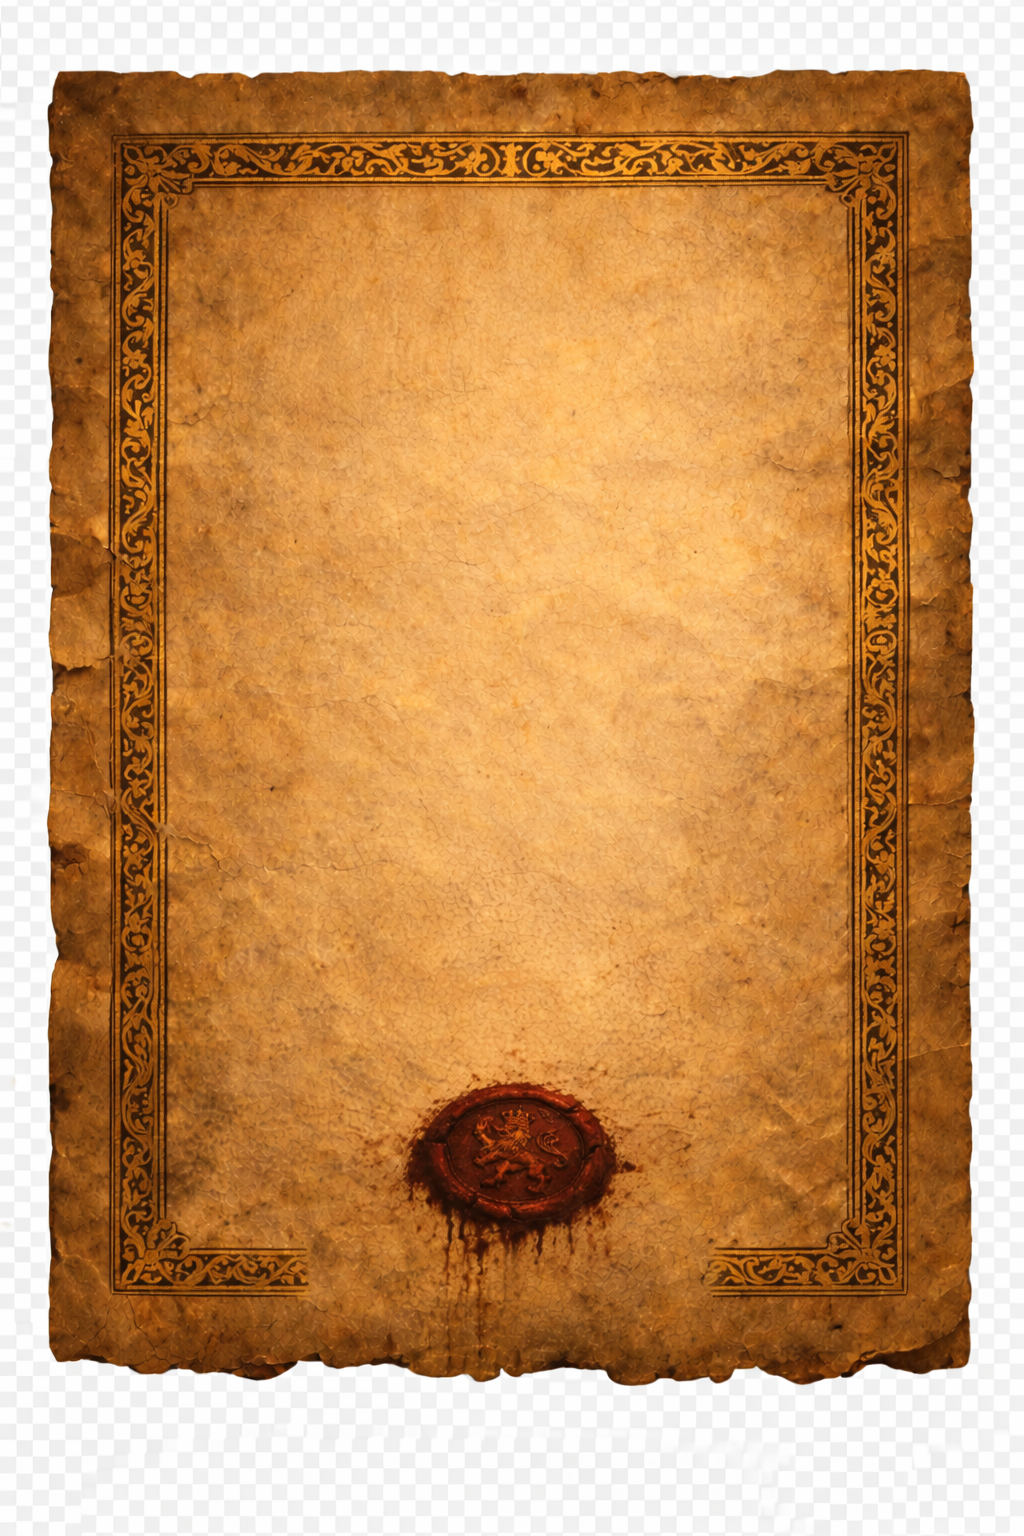
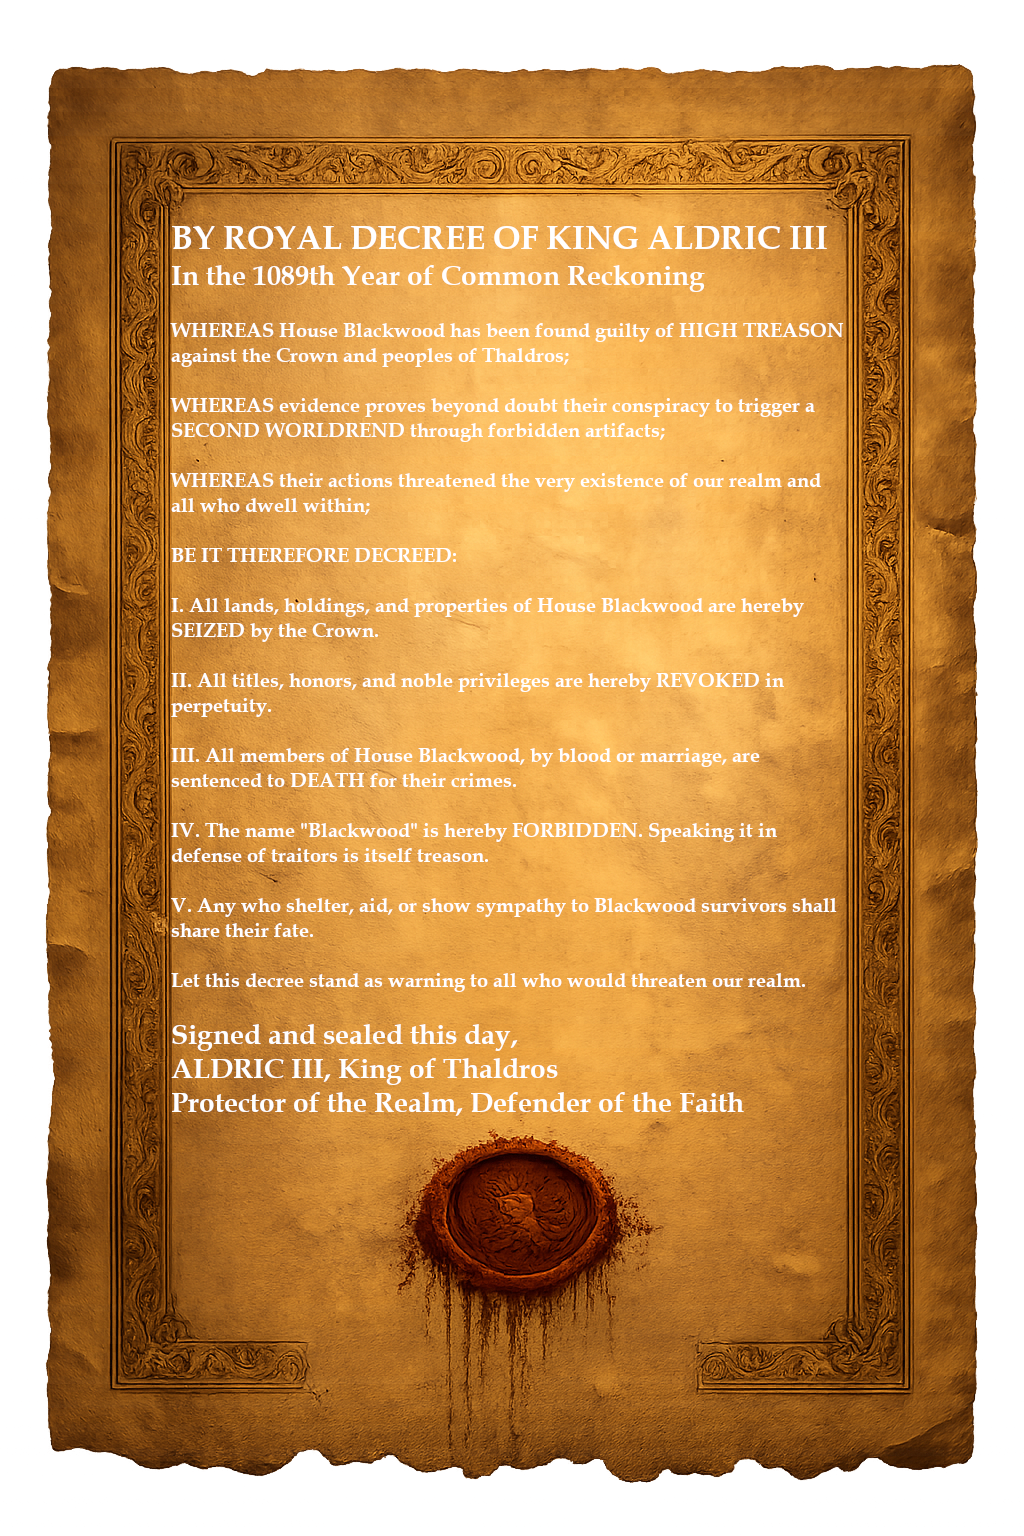
- updated decree

diff --git a/homebrewery-files/shattered-oaths-homebrewery.md b/homebrewery-files/shattered-oaths-homebrewery.md
@@ -13043,13 +13043,7 @@ This section contains printable handouts to enhance immersion. Each handout incl
 
 **DM Note:** This is the Unbound's recognition symbol. Members carry these to identify each other. Finding one on a cultist or at a crime scene confirms Unbound involvement.
 
----
-
-**DALL-E PROMPT - Black Raven Token:**
-```
-A dark metal coin or medallion on aged wooden surface, featuring an embossed silver raven with spread wings against black iron, ancient runic text around the edge, dramatic lighting from single candle, photorealistic, dark fantasy style, mysterious atmosphere, high detail
-```
-
+\column
 
 ## Handout 2: Silverpine Rumors
 
@@ -13091,7 +13085,7 @@ A dark metal coin or medallion on aged wooden surface, featuring an embossed sil
 
 *Found during Quest 1.2 or given by intimidated shopkeepers*
 
-![Threatening Letter](https://your-image-url-here.png){width:100%}
+![Threatening Letter](https://raw.githubusercontent.com/mixologee/tirvandor/main/tirvandor-project/all_artwork/handouts/tirvandor-so-raven-letter.png){position:absolute,bottom:0px,right:0px,width:60%}
 
 {{description,note
 *The letter is written on rough paper in harsh, angular handwriting. A black raven symbol is stamped at the bottom in what might be dried blood.*
@@ -13119,16 +13113,12 @@ A dark metal coin or medallion on aged wooden surface, featuring an embossed sil
 *— By order of Lord Shadows*
 }}
 
+<div style="width:85%">
+
 **DM Note:** This establishes the Unbound's methods—part extortion, part recruitment. The gold funds their operations; the fear spreads their influence.
 
----
+</div>
 
-**DALL-E PROMPT - Threatening Letter:**
-```
-Aged parchment letter with angular threatening handwriting, black raven stamp at bottom in dark red wax or blood, rough torn edges, dramatic candlelight illumination, dark fantasy prop, weathered paper texture, medieval style, photorealistic document
-```
-
----
 
 \page
 
@@ -13136,7 +13126,7 @@ Aged parchment letter with angular threatening handwriting, black raven stamp at
 
 *Found in Black Archive (Quest 2.1) or royal libraries*
 
-![Royal Decree](https://your-image-url-here.png){width:100%}
+![Royal Decree](https://raw.githubusercontent.com/mixologee/tirvandor/main/tirvandor-project/all_artwork/handouts/tirvandor-so-royal-decree.png){position:absolute,bottom:0px,right:0px,width:60%}
 
 {{description,note
 *A formal document bearing the royal seal of Thaldros—a crowned lion rampant in red wax, now cracked with age. The parchment is thick, official, preserved behind glass for over a century.*
@@ -13177,14 +13167,6 @@ Aged parchment letter with angular threatening handwriting, black raven stamp at
 
 **DM Note:** This is the "official" history. Players who've learned the truth know this decree was based on lies—the Blackwoods were framed to cover up Prince Aldric's crimes.
 
----
-
-**DALL-E PROMPT - Royal Decree:**
-```
-Official royal decree on aged vellum parchment, ornate calligraphy text, large cracked red wax seal with crowned lion emblem, gold leaf decorative borders, medieval legal document style, dramatic lighting, museum quality preservation, photorealistic prop
-```
-
----
 
 \page
 
